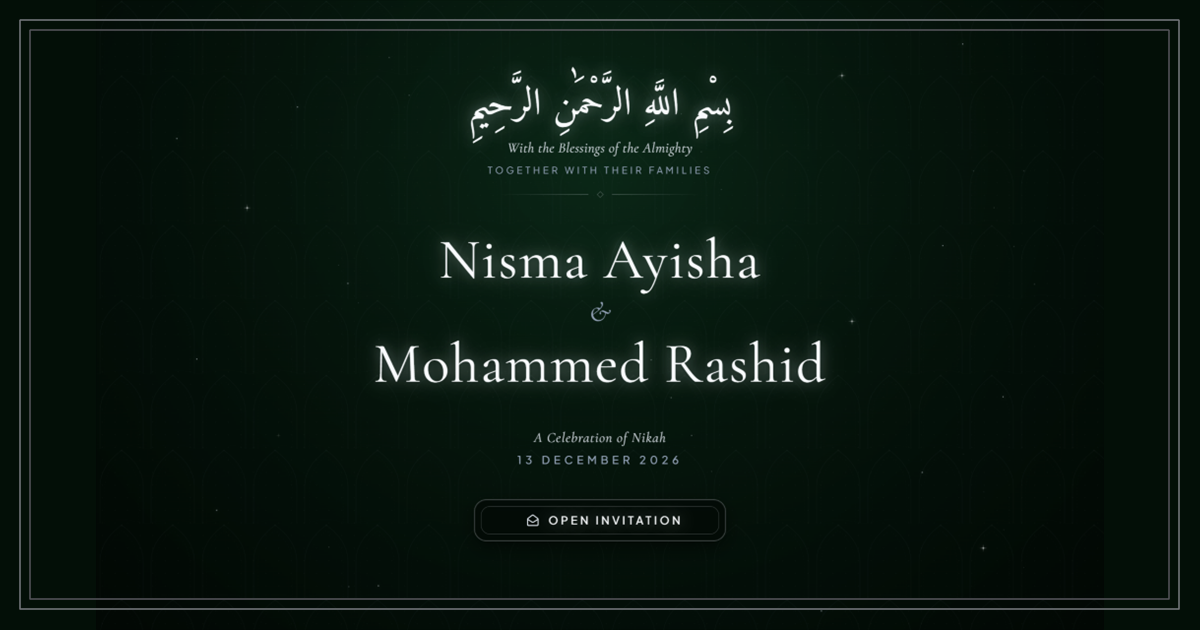
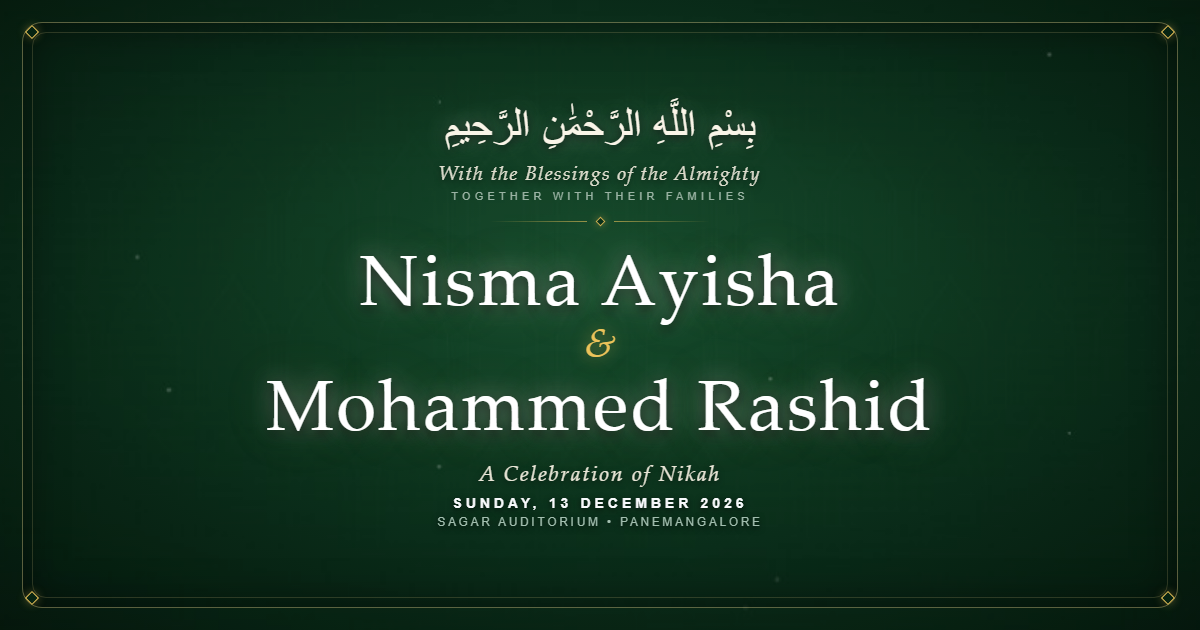
Design premium luxury emerald & gold wedding invitation OG preview card

diff --git a/public/og-preview.html b/public/og-preview.html
@@ -2,10 +2,10 @@
 <html lang="en">
 <head>
   <meta charset="UTF-8">
-  <title>OG Image Generator</title>
+  <title>OG Preview Card</title>
   <link rel="preconnect" href="https://fonts.googleapis.com">
   <link rel="preconnect" href="https://fonts.gstatic.com" crossorigin>
-  <link href="https://fonts.googleapis.com/css2?family=Amiri:wght@400;700&family=Cinzel:wght@400;600&family=Cormorant+Garamond:ital,wght@0,300;0,400;0,600;1,400&family=Plus+Jakarta+Sans:wght@300;400;500;600&display=swap" rel="stylesheet">
+  <link href="https://fonts.googleapis.com/css2?family=Amiri:wght@400;700&family=Cinzel:wght@400;600&family=Cormorant+Garamond:ital,wght@0,300;0,400;0,500;0,600;1,400;1,500&family=Plus+Jakarta+Sans:wght@300;400;500;600;700&display=swap" rel="stylesheet">
   <style>
     * {
       margin: 0;
@@ -16,149 +16,199 @@
       width: 1200px;
       height: 630px;
       overflow: hidden;
-      background-color: #030d06;
+      background-color: #020f06;
       font-family: 'Plus Jakarta Sans', sans-serif;
-      color: #E2E8F0;
+      color: #F8FAFC;
     }
     .og-container {
       width: 1200px;
       height: 630px;
       position: relative;
-      background: radial-gradient(ellipse at 50% 35%, #082917 0%, #031409 60%, #010603 100%);
+      background: radial-gradient(ellipse at 50% 46%, #0f4024 0%, #082816 55%, #03140a 100%);
       display: flex;
       flex-direction: column;
       align-items: center;
       justify-content: center;
-      padding: 40px;
+      padding: 30px;
       text-align: center;
     }
-    /* Outer Concentric Hairline Frame */
+    .bg-texture {
+      position: absolute;
+      inset: 0;
+      background-image: url('./bg-emerald.jpg');
+      background-size: cover;
+      background-position: center;
+      opacity: 0.45;
+      mix-blend-mode: screen;
+      pointer-events: none;
+    }
+
+    /* Outer Concentric Hairline Frame with Champagne Gold Accent */
     .outer-frame {
       position: absolute;
-      inset: 24px;
-      border: 1px solid rgba(226, 232, 240, 0.35);
-      border-radius: 24px;
+      inset: 22px;
+      border: 1px solid rgba(230, 205, 140, 0.38);
+      border-radius: 20px;
       pointer-events: none;
+      box-shadow: inset 0 0 40px rgba(0, 0, 0, 0.5);
     }
     /* Inner Concentric Hairline Frame */
     .inner-frame {
       position: absolute;
-      inset: 34px;
-      border: 1px solid rgba(226, 232, 240, 0.16);
-      border-radius: 16px;
+      inset: 32px;
+      border: 1px solid rgba(230, 205, 140, 0.18);
+      border-radius: 14px;
       pointer-events: none;
     }
-    /* Corner Diamond Accents */
+
+    /* Corner Diamond Flourishes */
     .corner-diamond {
       position: absolute;
-      width: 8px;
-      height: 8px;
-      border: 1px solid rgba(245, 215, 127, 0.6);
+      width: 10px;
+      height: 10px;
+      border: 1px solid #ECC35A;
       transform: rotate(45deg);
-      background: #082917;
+      background: #062312;
+      box-shadow: 0 0 10px rgba(236, 195, 90, 0.4);
     }
-    .top-left { top: 30px; left: 30px; }
-    .top-right { top: 30px; right: 30px; }
-    .bottom-left { bottom: 30px; left: 30px; }
-    .bottom-right { bottom: 30px; right: 30px; }
+    .top-left { top: 27px; left: 27px; }
+    .top-right { top: 27px; right: 27px; }
+    .bottom-left { bottom: 27px; left: 27px; }
+    .bottom-right { bottom: 27px; right: 27px; }
+
+    /* Central Content Box - strictly contained within 680px for perfect square-crop compatibility */
+    .content-box {
+      width: 680px;
+      display: flex;
+      flex-direction: column;
+      align-items: center;
+      justify-content: center;
+      z-index: 10;
+    }
 
     .bismillah {
       font-family: 'Amiri', serif;
-      font-size: 40px;
-      color: #F8FAFC;
+      font-size: 42px;
+      color: #FAF5E8;
       letter-spacing: 0.05em;
-      margin-bottom: 8px;
-      text-shadow: 0 0 20px rgba(255, 255, 255, 0.35);
+      margin-bottom: 6px;
+      text-shadow: 0 0 25px rgba(250, 245, 232, 0.45), 0 2px 8px rgba(0, 0, 0, 0.8);
+      line-height: 1.2;
     }
     .sub-blessing {
-      font-family: 'Cormorant Garamond', serif;
+      font-family: 'Cormorant Garamond', 'Palatino Linotype', 'Georgia', serif;
       font-style: italic;
       font-size: 20px;
-      color: rgba(226, 232, 240, 0.85);
+      color: rgba(245, 240, 225, 0.9);
       font-weight: 300;
-      letter-spacing: 0.05em;
+      letter-spacing: 0.06em;
       margin-bottom: 4px;
+      text-shadow: 0 2px 6px rgba(0, 0, 0, 0.6);
     }
     .families {
       font-family: 'Plus Jakarta Sans', sans-serif;
       font-size: 11px;
-      letter-spacing: 0.35em;
+      letter-spacing: 0.38em;
       text-transform: uppercase;
-      color: #94A3B8;
-      margin-bottom: 22px;
+      color: #9BB3A4;
+      margin-bottom: 16px;
+      font-weight: 500;
     }
-    /* Diamond Divider */
+
+    /* Ornate Filigree Gold Divider */
     .divider {
       display: flex;
       align-items: center;
       justify-content: center;
-      width: 240px;
-      margin: 0 auto 24px;
-      opacity: 0.75;
+      width: 220px;
+      margin: 0 auto 16px;
+      opacity: 0.85;
     }
     .divider-line {
       flex: 1;
       height: 1px;
-      background: linear-gradient(90deg, transparent, rgba(226, 232, 240, 0.4));
+      background: linear-gradient(90deg, transparent, rgba(236, 195, 90, 0.7));
     }
     .divider-line.right {
-      background: linear-gradient(270deg, transparent, rgba(226, 232, 240, 0.4));
+      background: linear-gradient(270deg, transparent, rgba(236, 195, 90, 0.7));
     }
     .divider-diamond {
       width: 7px;
       height: 7px;
-      border: 1px solid rgba(226, 232, 240, 0.5);
-      background: #082213;
+      border: 1px solid #ECC35A;
+      background: #092C18;
       transform: rotate(45deg);
-      margin: 0 12px;
+      margin: 0 10px;
+      box-shadow: 0 0 8px rgba(236, 195, 90, 0.5);
     }
-    /* Couple Names */
+
+    /* Stately Couple Names */
     .couple-names {
       display: flex;
       flex-direction: column;
       align-items: center;
-      margin-bottom: 20px;
+      margin-bottom: 16px;
     }
     .name {
-      font-family: 'Cormorant Garamond', serif;
-      font-size: 64px;
+      font-family: 'Cormorant Garamond', 'Palatino Linotype', 'Georgia', serif;
+      font-size: 72px;
       font-weight: 500;
-      color: #F8FAFC;
-      letter-spacing: 0.04em;
-      line-height: 1.1;
-      text-shadow: 0 0 25px rgba(226, 232, 240, 0.4), 0 0 50px rgba(255, 255, 255, 0.2);
+      color: #FFFFFF;
+      letter-spacing: 0.035em;
+      line-height: 1.05;
+      text-shadow: 
+        0 0 25px rgba(255, 255, 255, 0.4),
+        0 0 50px rgba(230, 205, 140, 0.25),
+        0 4px 12px rgba(0, 0, 0, 0.9);
     }
     .ampersand {
-      font-family: 'Cormorant Garamond', serif;
+      font-family: 'Cormorant Garamond', 'Palatino Linotype', 'Georgia', serif;
       font-style: italic;
-      font-size: 38px;
-      color: #E5BE53;
+      font-size: 40px;
+      color: #ECC35A;
       margin: -2px 0;
-      text-shadow: 0 0 15px rgba(229, 190, 83, 0.5);
+      text-shadow: 0 0 16px rgba(236, 195, 90, 0.6);
     }
+
+    /* Event Details */
     .details {
-      margin-top: 10px;
+      display: flex;
+      flex-direction: column;
+      align-items: center;
     }
     .celebration {
-      font-family: 'Cormorant Garamond', serif;
+      font-family: 'Cormorant Garamond', 'Palatino Linotype', 'Georgia', serif;
       font-style: italic;
-      font-size: 20px;
-      color: rgba(226, 232, 240, 0.9);
+      font-size: 22px;
+      color: rgba(245, 240, 225, 0.95);
       letter-spacing: 0.08em;
-      margin-bottom: 6px;
+      margin-bottom: 8px;
+      text-shadow: 0 2px 6px rgba(0, 0, 0, 0.6);
     }
-    .date-venue {
+    .date {
       font-family: 'Plus Jakarta Sans', sans-serif;
-      font-size: 13px;
-      letter-spacing: 0.28em;
+      font-size: 13.5px;
+      letter-spacing: 0.32em;
       text-transform: uppercase;
-      color: #E2E8F0;
+      color: #F8FAFC;
+      font-weight: 600;
+      margin-bottom: 5px;
+      text-shadow: 0 2px 6px rgba(0, 0, 0, 0.8);
+    }
+    .venue {
+      font-family: 'Plus Jakarta Sans', sans-serif;
+      font-size: 11.5px;
+      letter-spacing: 0.26em;
+      text-transform: uppercase;
+      color: #A3BFB0;
       font-weight: 500;
+      text-shadow: 0 2px 6px rgba(0, 0, 0, 0.8);
     }
   </style>
 </head>
 <body>
   <div class="og-container">
+    <div class="bg-texture"></div>
     <div class="outer-frame"></div>
     <div class="inner-frame"></div>
     <div class="corner-diamond top-left"></div>
@@ -166,25 +216,28 @@
     <div class="corner-diamond bottom-left"></div>
     <div class="corner-diamond bottom-right"></div>
 
-    <div class="bismillah">بِسْمِ اللَّهِ الرَّحْمَٰنِ الرَّحِيمِ</div>
-    <div class="sub-blessing">With the Blessings of the Almighty</div>
-    <div class="families">TOGETHER WITH THEIR FAMILIES</div>
+    <div class="content-box">
+      <div class="bismillah">بِسْمِ اللَّهِ الرَّحْمَٰنِ الرَّحِيمِ</div>
+      <div class="sub-blessing">With the Blessings of the Almighty</div>
+      <div class="families">TOGETHER WITH THEIR FAMILIES</div>
 
-    <div class="divider">
-      <div class="divider-line"></div>
-      <div class="divider-diamond"></div>
-      <div class="divider-line right"></div>
-    </div>
+      <div class="divider">
+        <div class="divider-line"></div>
+        <div class="divider-diamond"></div>
+        <div class="divider-line right"></div>
+      </div>
 
-    <div class="couple-names">
-      <div class="name">Nisma Ayisha</div>
-      <div class="ampersand">&amp;</div>
-      <div class="name">Mohammed Rashid</div>
-    </div>
+      <div class="couple-names">
+        <div class="name">Nisma Ayisha</div>
+        <div class="ampersand">&amp;</div>
+        <div class="name">Mohammed Rashid</div>
+      </div>
 
-    <div class="details">
-      <div class="celebration">A Celebration of Nikah</div>
-      <div class="date-venue">SUNDAY 13 DECEMBER 2026 • SAGAR AUDITORIUM, PANEMANGALORE</div>
+      <div class="details">
+        <div class="celebration">A Celebration of Nikah</div>
+        <div class="date">SUNDAY, 13 DECEMBER 2026</div>
+        <div class="venue">SAGAR AUDITORIUM • PANEMANGALORE</div>
+      </div>
     </div>
   </div>
 </body>
